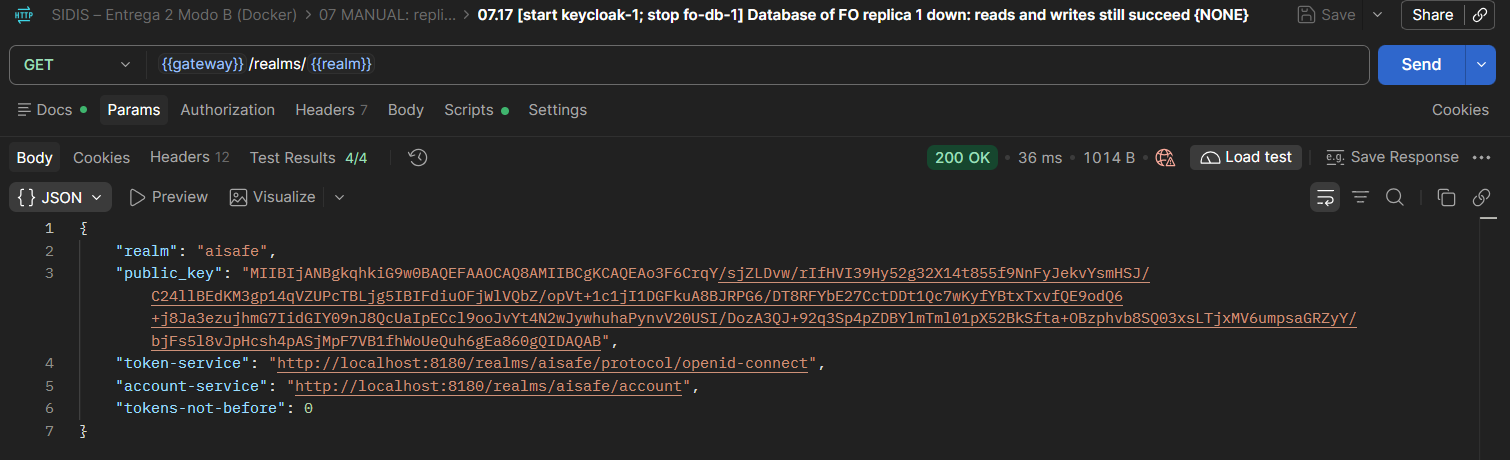
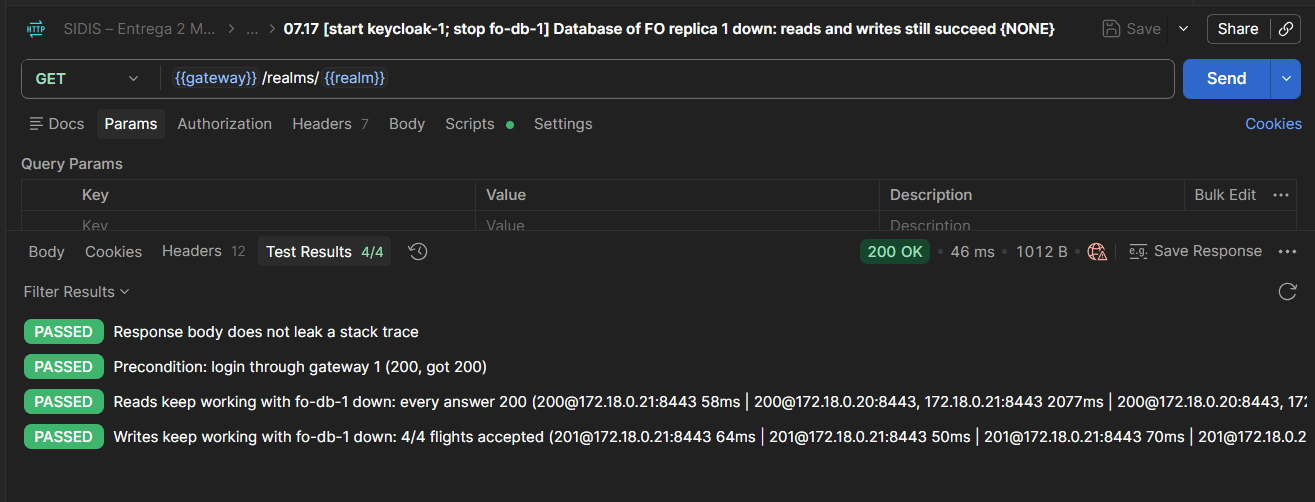
Readmes + prints do projeto

diff --git a/Services/Flighting Operations/src/main/java/pt/isep/psoft/aisafe/flight_operations/infrastructure/messaging/inbound/AircraftEventListener.java b/Services/Flighting Operations/src/main/java/pt/isep/psoft/aisafe/flight_operations/infrastructure/messaging/inbound/AircraftEventListener.java
@@ -15,6 +15,12 @@ import pt.isep.psoft.aisafe.flight_operations.application.reference.AircraftRefe
 import java.nio.charset.StandardCharsets;
 import java.time.Clock;
 
+/**
+ * Consumes the Aircraft Service events from this replica's own queue fo.aircraft.<instance>
+ * and keeps aircraft_ref up to date.
+ * Ack only after the commit; malformed -> dead-letter queue; temporary failure -> requeue
+ * (max 5 deliveries, then dead-letter queue).
+ */
 
 @Component
 public class AircraftEventListener {

diff --git a/Services/Flighting Operations/README_E2.md b/Services/Flighting Operations/README_E2.md
@@ -2,7 +2,7 @@
 
 Serviço do sistema distribuído **AISafe Flight Management System** responsável pelo agendamento de voos, pela
 atribuição de aviões a rotas (alcance e capacidade), pela consulta de disponibilidade, pelo ciclo de vida dos voos, pela
-**reatribuição de voos quando um avião é imobilizado (grounding)**, e pelo relatório de utilização de rotas.
+**reatribuição de voos quando um avião é imobilizado (grounding)** e pelo relatório de utilização de rotas.
 
 A documentação da Entrega 1 está no `README.md`. Este documento descreve a Entrega 2: CQRS, mensagens AMQP,
 base de dados por réplica e infraestrutura sem pontos únicos de falha.
@@ -73,7 +73,7 @@ scheduled_flight outbox_event    (read-your-writes)       flight_view
   locais. Quem escreve numa réplica lê logo o seu próprio resultado nessa réplica.
 - **Lado das consultas.** O `FlightQueryService` só lê as vistas de `fo_query` e os dados de referência locais.
   Nunca chama outras réplicas nem outros serviços.
-- **Projeções.** O `FlightProjector` atualiza `flight_view` (só se a versão recebida for mais recente), recalcula a
+- **Projeções.** O `FlightProjector` atualiza `flight_view` (só se a versão recebida for mais recente) e recalcula a
   utilização da rota (sem voos `CANCELED`).
 
 | Componente                                                                                        | Responsabilidade                                                                                               |
@@ -263,7 +263,7 @@ mesmas migrações Flyway). Além dos testes da P1, cobrem:
   `AircraftReferenceServiceTest`, `AircraftGroundingHandlerTest`);
 - snapshot no arranque (`SnapshotBootstrapperTest`), cópia de um voo em falta (`MissingFlightRecoveryTest`),
   reconciliação do grounding (`GroundingReconcilerTest`) e limpeza da idempotência (`ProcessedEventCleanupTest`);
-- regras RBAC do novo endpoint (`SecurityRulesTest`);
+- regras RBAC dos endpoints (`SecurityRulesTest`);
 - concorrência nas referências locais (`ReferenceDataServiceConcurrencyTest`), disponibilidade numa réplica que ainda
   não conhece o avião (`FlightQueryServiceAvailabilityFallbackTest`), `503` com a BD em baixo
   (`GlobalExceptionHandlerDatabaseTest`) e sincronização entre réplicas (`ReplicaSyncReconcilerTest`).
@@ -273,7 +273,7 @@ environment `SIDIS`, verificação SSL desligada). As coleções da Entrega 1 ma
 
 | Pasta | Tipo       | O que cobre                                                                                                                                                                                                                                                                                                                                                 |
 |-------|------------|-------------------------------------------------------------------------------------------------------------------------------------------------------------------------------------------------------------------------------------------------------------------------------------------------------------------------------------------------------------|
-| 00–06 | Automática | Runner com 100 ms de atraso: **125 testes, 0 falhas**                                                                                                                                                                                                                                                                                                       |
+| 00–06 | Automática | Runner com 100 ms de atraso: **100 testes, 0 falhas**                                                                                                                                                                                                                                                                                                       |
 | 02    |            | Comandos e consultas do FO, convergência das duas réplicas, ETag = revisão, 8 reservas simultâneas do mesmo slot (fica um voo), evento fora de ordem ignorado, sequência rápida de comandos entre réplicas, disponibilidade                                                                                                                                 |
 | 03    |            | Eventos do Airports & Routes: rota nova e rota desativada chegam ao FO                                                                                                                                                                                                                                                                                      |
 | 04    |            | Eventos do Aircraft publicados pela API de gestão do RabbitMQ (grounding → voos movidos e avião `UNDER_MAINTENANCE`, duplicado, ordem por revisão, *dead-letter*)                                                                                                                                                                                           |
@@ -284,7 +284,7 @@ Os testes do FO chamam diretamente as 3 réplicas (`fo1`, `fo2`, `fo3`), à vez.
 
 | Pasta | Tipo       | O que cobre                                                                                                                                                                                                                                               |
 |-------|------------|-----------------------------------------------------------------------------------------------------------------------------------------------------------------------------------------------------------------------------------------------------------|
-| 00–07 | Automática | Runner com 100 ms de atraso: **188 testes, 0 falhas** — login, saúde das 9 instâncias, eventos do Airports (incluindo detalhes e parâmetros de rotas), CQRS e convergência das 3 réplicas do FO, concorrência, evento fora de ordem e eventos do Aircraft |
+| 00–07 | Automática | Runner com 100 ms de atraso: **170 testes, 0 falhas** — login, saúde das 9 instâncias, eventos do Airports (incluindo detalhes e parâmetros de rotas), CQRS e convergência das 3 réplicas do FO, concorrência, evento fora de ordem e eventos do Aircraft |
 | 08–09 | Manual     | Réplica do FO / do Airports parada: a sua fila guarda os eventos e ela recupera-os ao voltar — **passaram**                                                                                                                                               |
 | 10    | Manual     | Replicação da imagem de um aeroporto (opcional)                                                                                                                                                                                                           |
 

diff --git a/docs/SIDIS/README.md b/docs/SIDIS/README.md
@@ -157,15 +157,10 @@ Parar: `.\start-infra.ps1 -Stop` (Keycloak: Ctrl+C na janela dele), `docker comp
 
 ## Testes
 
-### Postman (pasta `tests(postman)/`)
-
 | Coleção                                                                                                                     | Modo  | Conteúdo                                                                                                                                                                                                                |
 |-----------------------------------------------------------------------------------------------------------------------------|-------|-------------------------------------------------------------------------------------------------------------------------------------------------------------------------------------------------------------------------|
-| `SIDIS – Entrega 2 Modo B (Docker).postman_collection.json` / `SIDIS – Entrega 2 Modo A (IntelliJ).postman_collection.json` | B / A | Coleções completas da Entrega 2 (todos os serviços). Modo B: 125 testes automáticos (pastas 00–06) e 18 manuais de falhas (pasta 07). Modo A: 188 testes automáticos (00–07) e 3 pastas manuais (08–10). Todos a passar |
-| `SIDIS – Entrega 2 (Modo B).postman_collection.json`                                                                        | B     | Login, Airports & Routes (comandos, eventos, consistência eventual), Flight Operations (CQRS e replicação), eventos entre serviços, eventos do Aircraft, smoke de Aircraft/Maintenance, 2 testes manuais de falhas |
-| `SIDIS – Entrega 2 (Modo A).postman_collection.json`                                                                        | A     | O mesmo sobre 3 instâncias de cada serviço, com acesso direto às instâncias, *last-writer-wins* e testes manuais de recuperação de filas                                                                                |
+| `SIDIS – Entrega 2 Modo B (Docker).postman_collection.json` / `SIDIS – Entrega 2 Modo A (IntelliJ).postman_collection.json` | B / A | Coleções completas da Entrega 2 (todos os serviços). Modo B: 100 testes automáticos (pastas 00–06) e 18 manuais de falhas (pasta 07). Modo A: 170 testes automáticos (00–07) e 3 pastas manuais (08–10). Todos a passar |
 | `SIDIS – Modo A (IntelliJ)` / `SIDIS – Modo B (Docker)`                                                                     | A / B | Coleções da Entrega 1                                                                                                                                                                                                   |
-
 Como correr:
 1. Importar a coleção e o environment `SIDIS.postman_environment.json`; selecionar o environment **SIDIS**.
 2. Desligar *SSL certificate verification* nas definições do Postman.
@@ -177,11 +172,11 @@ Como correr:
 
 Resultado do Modo B (pastas 00–06, Collection Runner):
 
-![Modo B: 125 testes, 0 falhas](screenshots/e2-postman-modo-b.png)
+![Modo B: 100 testes, 0 falhas](screenshots/e2-postman-modo-b.png)
 
 Resultado do Modo A (pastas 00–07, 3 instâncias de cada serviço):
 
-![Modo A: 188 testes, 0 falhas](screenshots/e2-postman-modo-a.png)
+![Modo A: 170 testes, 0 falhas](screenshots/e2-postman-modo-a.png)
 
 Os testes de convergência escrevem numa instância e leem noutra até os dados aparecerem. Nas leituras do Airports
 é enviado `X-P2P-Hops: 1`, que desliga o reencaminhamento entre instâncias: um 200 prova que o evento chegou pelo RabbitMQ.

diff --git a/infrastructure/README_E2.md b/infrastructure/README_E2.md
@@ -151,7 +151,7 @@ Flight Operations (secção E2.13).
 Os mesmos cenários (e mais alguns: partição com compensação, réplica do Airports em baixo, recuperação total) estão
 na pasta **07** (18 pedidos, 07.01–07.18) da coleção do Postman `SIDIS – Entrega 2 Modo B (Docker)`
 (`tests(postman)/SIDIS – Entrega 2 Modo B (Docker).postman_collection.json`): corre-se o comando que está entre `[ ]` no nome de cada
-pedido e depois envia-se o pedido (**Send**, um a um). As pastas 00–06 correm no Runner (125 testes). Environment
+pedido e depois envia-se o pedido (**Send**, um a um). As pastas 00–06 correm no Runner (100 testes). Environment
 `SIDIS` com `rabbitMgmt`, `rabbitUser` e `rabbitPassword` (o valor do `.env`).
 
 ---
@@ -215,7 +215,7 @@ mesmas portas que o Modo B: **parar sempre um modo antes de arrancar o outro**.
    repositório): `Remove-Item data\airports_db_*.mv.db, data\airports_db_*.trace.db -ErrorAction SilentlyContinue`.
 6. Arrancar por esta ordem: Aircraft 1–3, Airports 1–3, Flight Operations 1–3.
 7. Testes: coleção `SIDIS – Entrega 2 Modo A (IntelliJ)` (`tests(postman)/SIDIS – Entrega 2 Modo A (IntelliJ).postman_collection.json`):
-   pastas 00–07 no Runner (188 testes), 08–10 manuais.
+   pastas 00–07 no Runner (170 testes), 08–10 manuais.
 
 Para voltar ao Modo B: parar os serviços no IntelliJ, fechar a janela do Keycloak, `.\start-infra.ps1 -Stop` (pára o
 NGINX do Modo A), `docker stop fo-db-a1 fo-db-a2 fo-db-a3` e `docker compose -f docker-compose.services.yml stop rabbitmq`.

diff --git a/Services/Airport e Routes/airports-routes-service/README_E2.md b/Services/Airport e Routes/airports-routes-service/README_E2.md
@@ -342,7 +342,7 @@ Pasta [`docs/`](docs/) (PlantUML), organizada por entrega: [`docs/E2/`](docs/E2/
 
 ![Postman Modo B](docs/screenshots/ar-07-postman-e2-modo-b.png)
 
-**Testes Postman da Entrega 2, Modo A** (188 testes):
+**Testes Postman da Entrega 2, Modo A** (170 testes):
 
 ![Postman Modo A](docs/screenshots/ar-08-postman-e2-modo-a.png)
 
